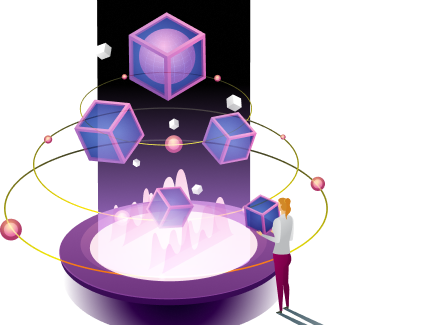
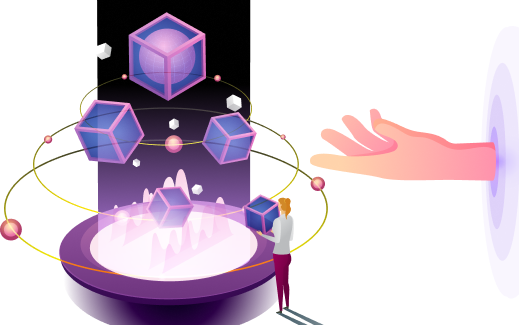
work on footer

diff --git a/index.html b/index.html
@@ -437,39 +437,30 @@
         <!-------------------------------------------------- section7 Parteners ------------------------------------------------->
         <section class="section7">
             <div class="my-container w-100">
-                <div class="sec7-card position-relative">
-                    <div class="row align-items-center gap-5 gap-lg-0">
-                        <div class="col-lg-6 col-12 d-flex justify-content-center justify-content-lg-start">
-                            <div class="max-w-462">
-                                <div
-                                    class="sec1-h ff-railway fw-700 fs-16xl white-color lh-125 text-center text-lg-start">
-                                    Start in seconds</div>
-                                <div
-                                    class="sec1-p ff-railway fw-400 fs-md lh-150 color-b8 mt-16 text-center text-lg-start">
-                                    It is a long established fact that a reader will be distracted by the readable
-                                    content of a
-                                    page when looking at its
-                                    layout</div>
+                <div class="sec7-card position-relative overflow-hidden">
+                    <div class="d-flex justify-content-center justify-content-lg-start">
+                        <div class="max-w-462 position-relative z-1">
+                            <div class="sec1-h ff-railway fw-700 fs-16xl white-color lh-125 text-center text-lg-start">
+                                Start in seconds</div>
+                            <div class="sec1-p ff-railway fw-400 fs-md lh-150 color-b8 mt-16 text-center text-lg-start">
+                                It is a long established fact that a reader will be distracted by the readable
+                                content of a
+                                page when looking at its
+                                layout</div>
 
-                                <div class="two-buttons d-flex align-items-center gap-3 mt-32 justify-content-center justify-content-lg-start">
-                                    <button
-                                        class="commen-btn btn-bg position-relative ff-railway fw-700 fs-md lh-150 white-color d-flex justify-content-center align-items-center">How
-                                        to start</button>
-                                    <button
-                                        class="commen-btn btn-bg launch-btn position-relative ff-railway fw-700 fs-md lh-150 white-color d-flex justify-content-center align-items-center">More
-                                        Details</button>
-                                </div>
+                            <div
+                                class="two-buttons d-flex align-items-center gap-3 mt-32 justify-content-center justify-content-lg-start flex-column flex-sm-row">
+                                <button
+                                    class="commen-btn btn-bg position-relative ff-railway fw-700 fs-md lh-150 white-color d-flex justify-content-center align-items-center">How
+                                    to start</button>
+                                <button
+                                    class="commen-btn btn-bg launch-btn position-relative ff-railway fw-700 fs-md lh-150 white-color d-flex justify-content-center align-items-center">More
+                                    Details</button>
                             </div>
                         </div>
-
-                        <div class="col-lg-6 col-12 d-flex justify-content-center justify-content-lg-start">
-                            <img src="./assets/images/png/sec-7-col6.png" alt="section7 col6 image" class="sec7-col6 w-100">
-                        </div>
                     </div>
-                    <div class="sec7-right-img">
-                        <img src="./assets/images/png/sec7-card-png.png" alt="section 7 image"
+                        <img src="./assets/images/png/sec-7-col6.png" alt="section 7 image"
                             class="sec7-right position-absolute">
-                    </div>
                 </div>
             </div>
         </section>

diff --git a/assets/css/style.css b/assets/css/style.css
@@ -410,7 +410,7 @@ hr {
     rgba(33, 33, 129, 0.18) 100%
   );
   box-shadow: 0px 2px 34.3px 4px #18539847;
-  padding: 60px;
+  padding: 20px;
   border-radius: 25px;
 }
 
@@ -499,6 +499,10 @@ hr {
 
   .max-w-462 {
     max-width: 462px;
+  }
+
+  .sec7-card {
+    padding: 60px;
   }
 }
 
@@ -644,6 +648,10 @@ hr {
 
   .sec6-img {
     max-width: 660px;
+  }
+
+  .sec7-right {
+    opacity: 20%;
   }
 }
 
